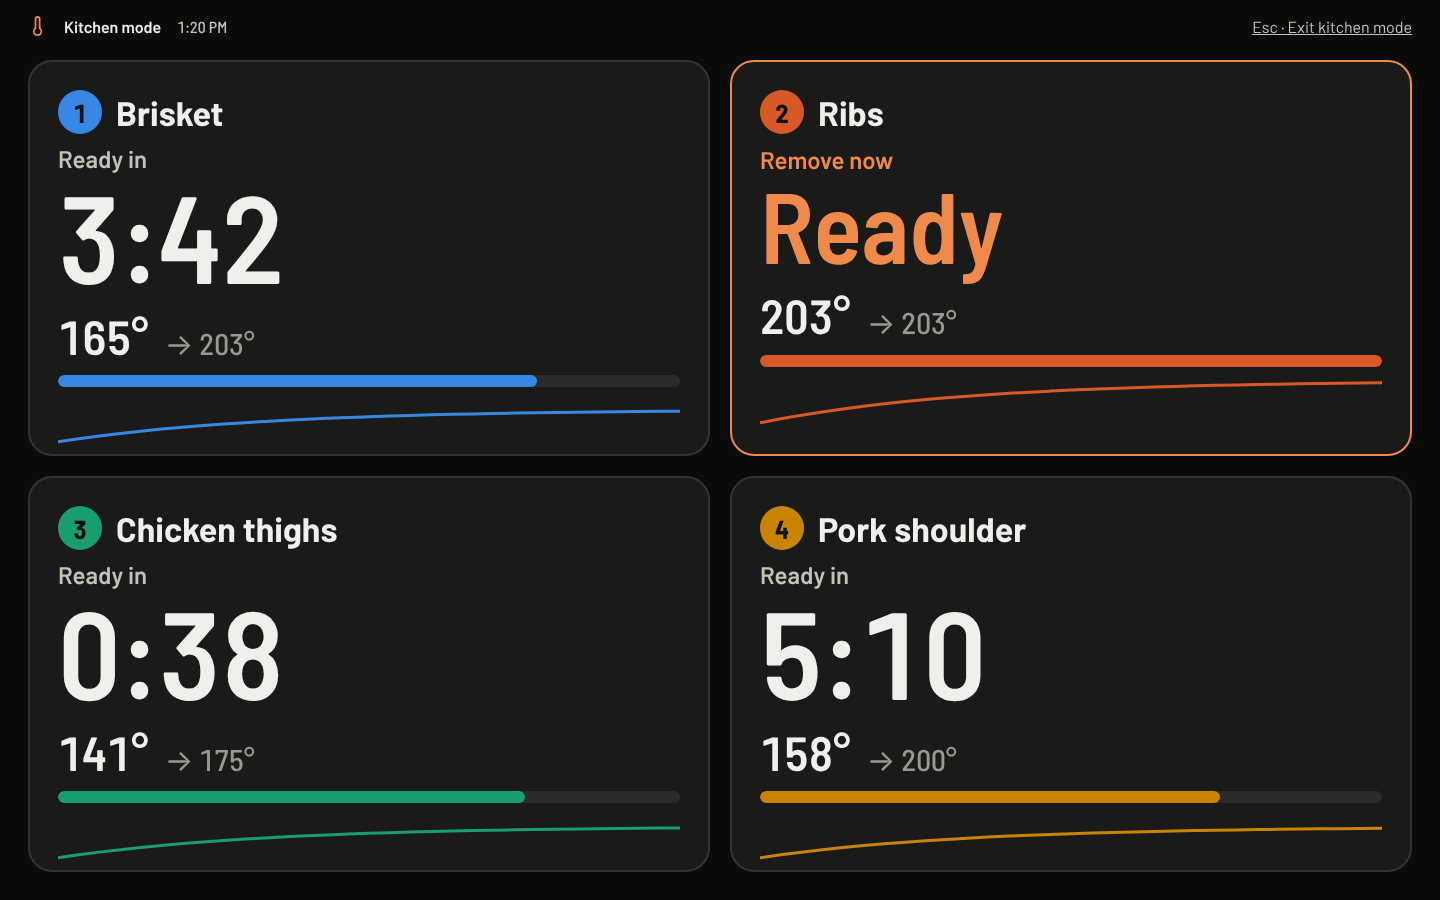
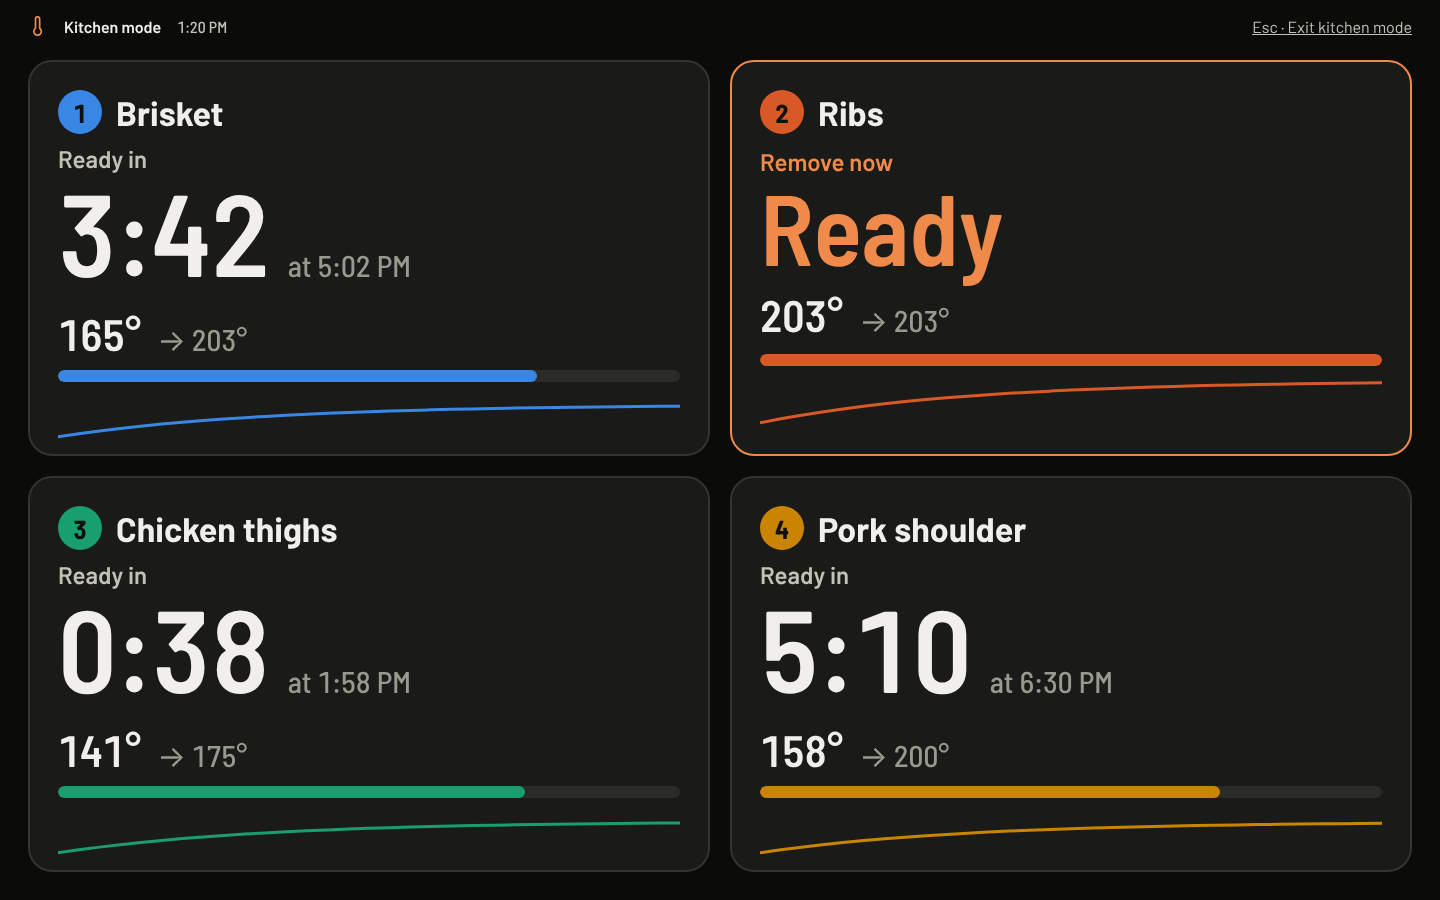
Move ready-in/at toggle to settings; show secondary completion time
Claude-Session: https://claude.ai/code/session_01XkQe4iPihTaUX5BRFTHjHt

diff --git a/docs/06-ux-plan.md b/docs/06-ux-plan.md
@@ -208,6 +208,7 @@ First launch:
 
 | Setting | Default |
 |---|---|
+| Prediction time | "Ready in" (countdown) primary, "Ready at" (clock) secondary; setting swaps them. No toggle in the main UI |
 | Units | Follow region |
 | Alarm sound / volume | Built-in per event (§17.3), 80% |
 | Alert when Do Not Disturb is on | On (macOS time-sensitive; Windows alarm toast) |
@@ -279,7 +280,7 @@ No screenshots could be fetched (combustion.inc and app stores are blocked from 
 | Reference | Source | Type | Used as |
 |---|---|---|---|
 | "Target temp (cooking to) and predicted (ready-in) time are now visible on the graph" | [Product release notes](https://combustion.inc/pages/product-release-notes) | Primary | Labels "Cooking to" / "Ready in"; target line + ready marker on graph |
-| Predictions in relative ("ready in") or absolute "clock" time | [App Store listing](https://apps.apple.com/us/app/combustion-inc/id1658858290) | Primary | "Ready in / Ready at" toggle in toolbar |
+| Predictions in relative ("ready in") or absolute "clock" time | [App Store listing](https://apps.apple.com/us/app/combustion-inc/id1658858290) | Primary | Settings choice of primary format; the other shown at lower emphasis |
 | Live Activities: "live cooking data for one of your probes" on Lock Screen, Watch, Dynamic Island | [Product release notes](https://combustion.inc/pages/product-release-notes) | Primary | One-probe floating live window, menu bar compact item |
 | Live Activities gained "temperature trend lines" (v3.3.0) | [Update history](https://combustioninc.gorgias.help/en-US/combustion-app-update-history-1614818) | Primary (vendor help center) | Trend sparkline on every live surface and kitchen tile |
 | Live Activities follow in-app device order; rounding fix between Live Activity and app | [App Store listing](https://apps.apple.com/us/app/combustion-inc/id1658858290) | Primary | Same order and same rounding on every surface (shared formatter) |
@@ -317,7 +318,7 @@ macOS notification banners use `UNNotificationSound.default` (system sound names
 
 | Board | Shows |
 |---|---|
-| Main window · 3 probes | Graph-first layout, hover crosshair, chip selection, Ready in/at toggle; tweaks: probes 1/3/8, alerting |
+| Main window · 3 probes | Graph-first layout, hover crosshair, chip selection; tweaks: probes 1/3/8, alerting, time format (stands in for the setting) |
 | Main window · alarm firing | Red alert band, alerting chip |
 | Main window · 8 probes | Non-focused probes core-only, end-label de-collision |
 | Kitchen mode · 4 probes / alarm | 2×2 tiles with trend lines; full-screen red takeover |
@@ -326,6 +327,10 @@ macOS notification banners use `UNNotificationSound.default` (system sound names
 | Set target · Alarms & alerts | Unit-aware target entry with range validation, mode choice, probe alarms, desktop alerts, sound picker |
 | Design tokens | Colors, validated probe palette (dark + light), type scale, sound map, spacing |
 
-Rendered screenshots: `docs/design/screenshots/` (headless Chromium, 1440 px wide).
+Completion time: the chosen format is primary; where space allows (inspector, kitchen tiles) the other format sits beside it at lower emphasis (muted, ~30% of the primary size), e.g. `3:42  at 5:02 PM` or `5:02  PM · in 3:42`. Chips, menu bar and widgets show the primary format only. Graph ready markers always use clock time.
+
+Rendered screenshots: `docs/design/screenshots/` (`MainAt.png`, `KitchenAt.png` show the "Ready at" setting).
+
+Rendered screenshots (all): `docs/design/screenshots/` (headless Chromium, 1440 px wide).
 
 Next: U2 (tokens.json + component specs from the Tokens board), then onboarding, history, settings, empty/error states boards.
